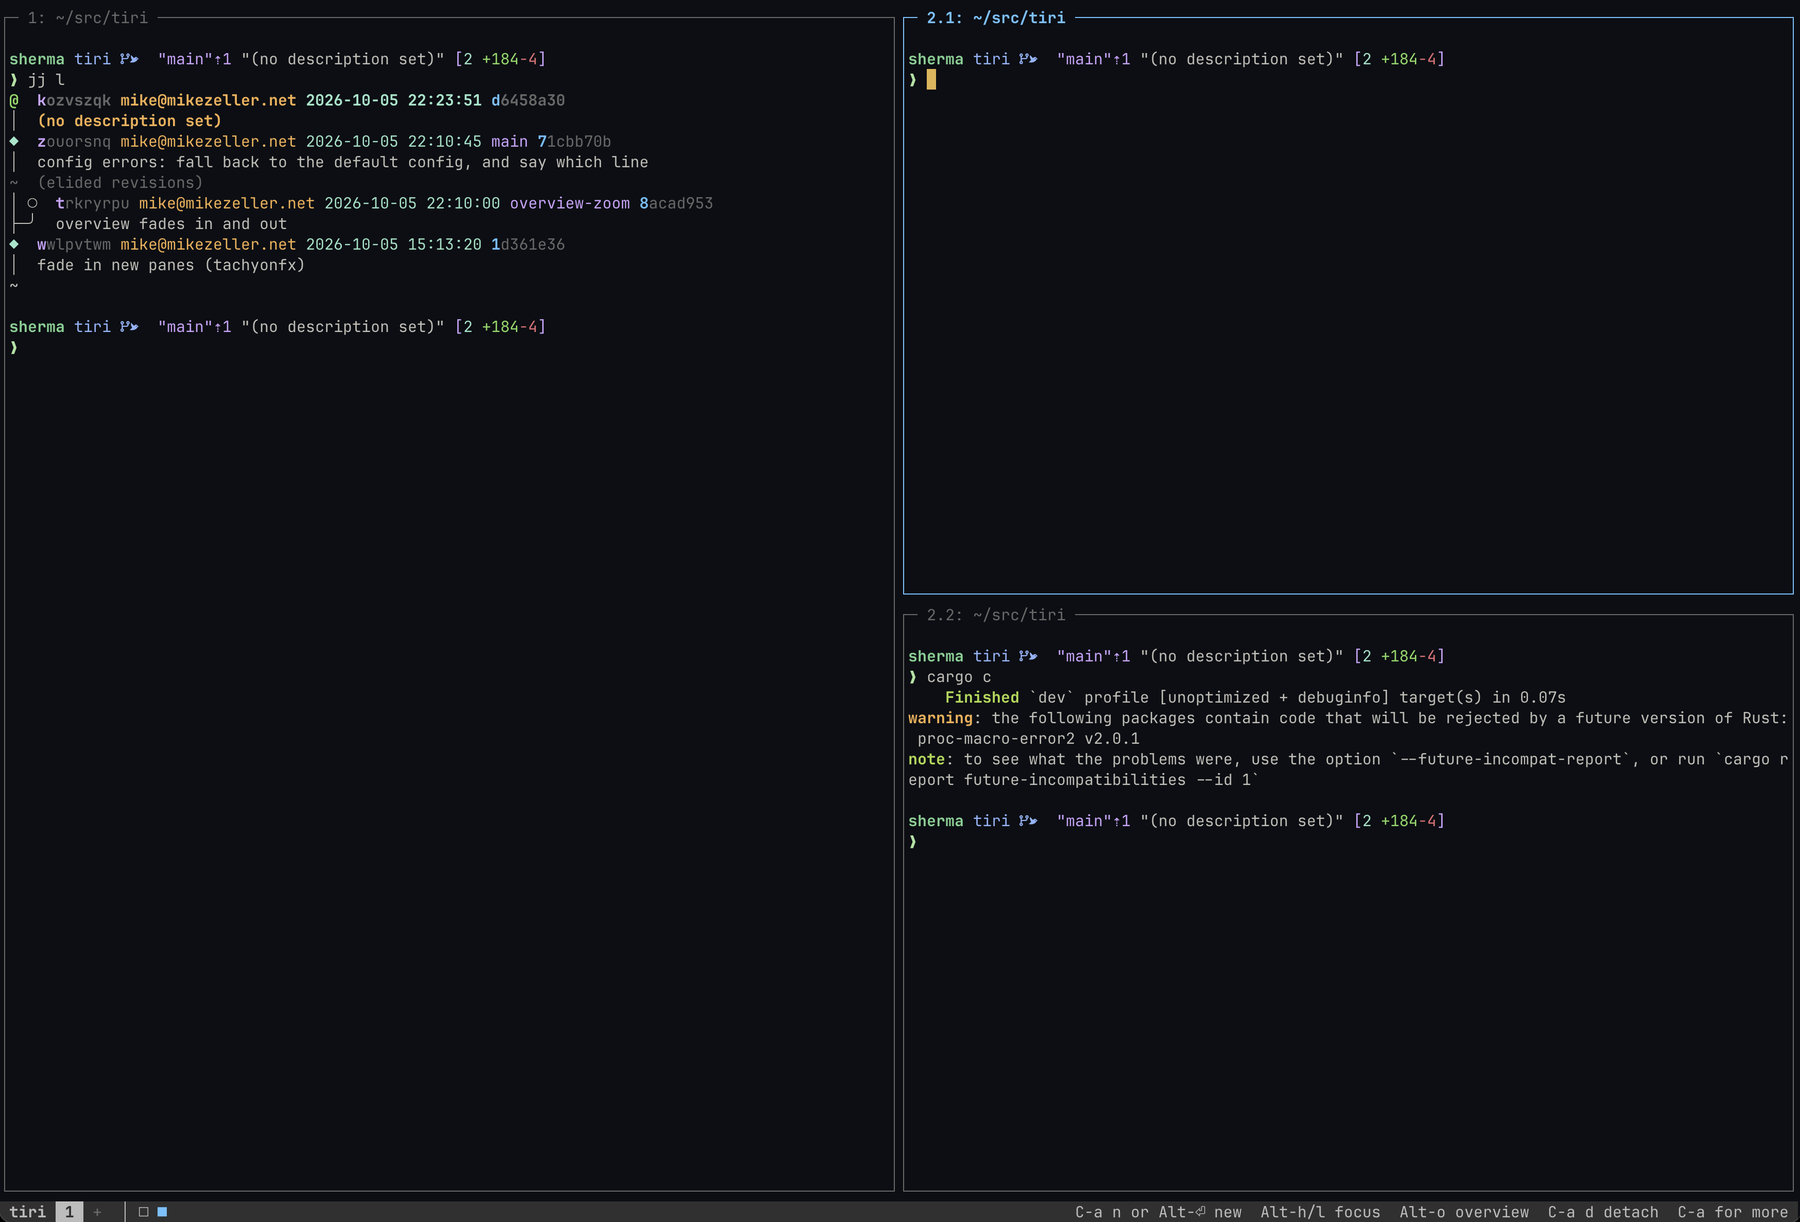
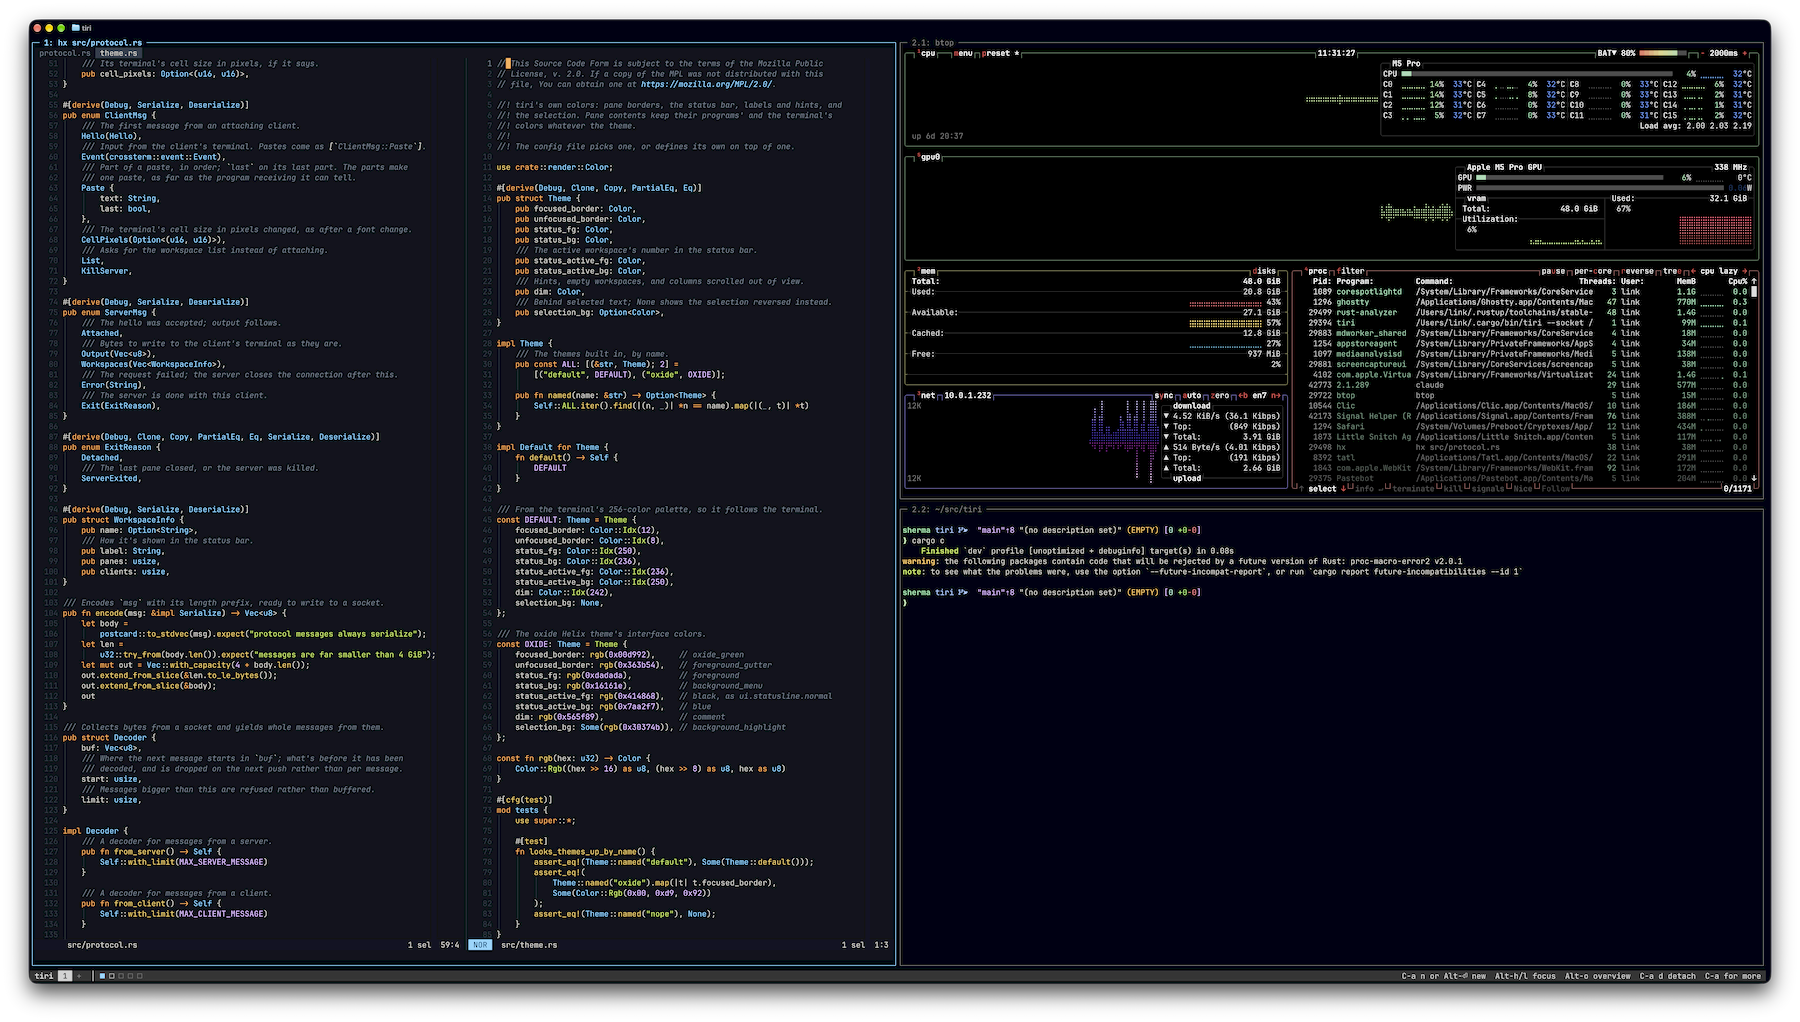
README: new screenshots

Changed region(s): [[0.0, 0.0, 1.0, 1.0], [0.7778, 0.6673, 0.8089, 0.6977], [0.4044, 0.4853, 0.4356, 0.5157]]

diff --git a/README.md b/README.md
@@ -8,7 +8,8 @@ endless strip that scrolls to keep the focused column on screen.
 Workspaces stack vertically above and below each other, and they keep
 running when you detach, like tmux sessions.
 
-![Three columns, the middle one with two panes stacked](docs/columns.png)
+![Two columns: Helix with two files side by side, and btop stacked above
+a shell](docs/columns.png)
 
 tiri runs on macOS and illumos. It should work on Linux too, but hasn't
 been tested there yet.
@@ -46,8 +47,8 @@ Run `tiri` again to attach. You can attach from several terminals at once.
 | **Named workspace** | A workspace you created with `tiri new <name>`. It stays even when empty, and `tiri attach <name>` takes you back to it. There's no way to rename or remove one yet; it lasts until the server stops. |
 | **Overview** | A zoomed-out view of every workspace and column, for finding and moving things. In terminals that can show images (kitty's graphics protocol, as in Ghostty and kitty), each pane is drawn as a picture of its screen. |
 
-![The overview: two workspaces, one above the other, each pane drawn as a
-picture of its screen](docs/overview.png)
+![The overview: a workspace of five columns, each pane drawn as a picture
+of its screen, with the empty workspace below](docs/overview.png)
 
 Unnamed workspaces come and go as needed: one disappears once it's empty
 and nobody is on it. There's always an empty workspace at the bottom,
